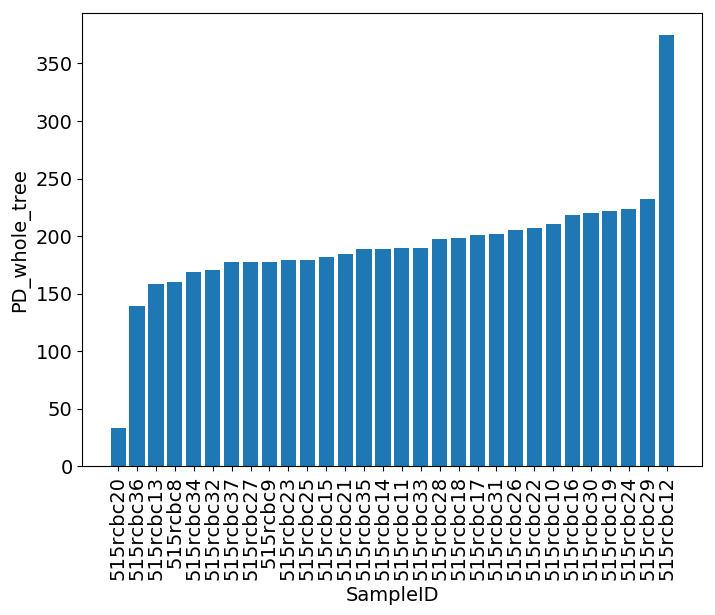
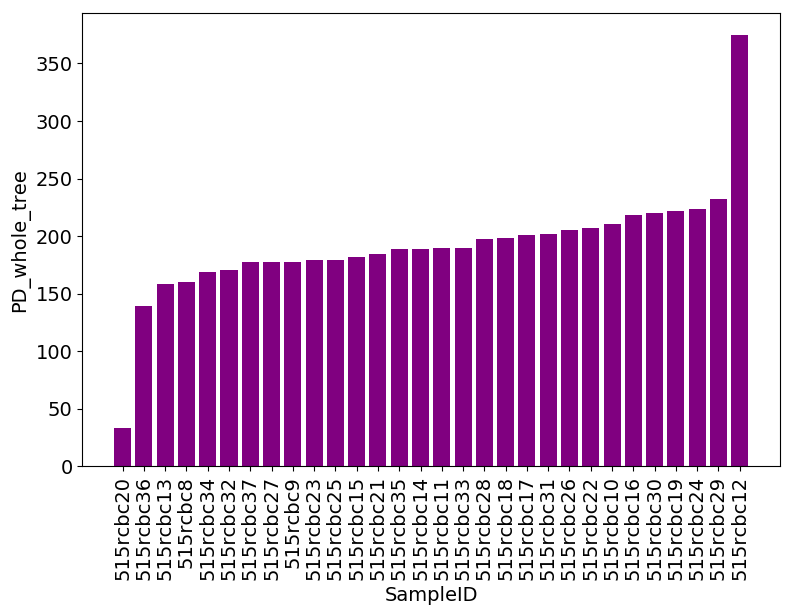
tweaking figures for the report

diff --git a/report/Report.tex b/report/Report.tex
@@ -5,14 +5,15 @@
 \usepackage{microtype} 
 \usepackage[export]{adjustbox}
 \usepackage[english]{babel} 
-\usepackage{float}
 \usepackage[hmarginratio=1:1,top=15mm,left=15mm,columnsep=15pt]{geometry} 
-\usepackage[small,labelfont=bf,up,textfont=it,up]{caption} 
+\usepackage[small,labelfont=bf,up,textfont=it,up]{caption}
+\usepackage{float}
 \usepackage{booktabs} 
 \usepackage{lettrine}
 \usepackage{graphicx}
 \usepackage{multicol}
-\usepackage{enumitem} 
+\usepackage{enumitem}
+\setlength{\parindent}{3ex}
 \setlist[itemize]{noitemsep} 
 \usepackage{abstract} 
 \renewcommand{\abstractnamefont}{\normalfont\bfseries}
@@ -22,7 +23,6 @@
 \renewcommand\thesubsection{\roman{subsection}} 
 \titleformat{\section}[block]{\large\scshape\centering}{\thesection.}{1em}{} 
 \titleformat{\subsection}[block]{\large}{\thesubsection.}{1em}{} 
-\pagenumbering{arabic}
 \usepackage{titling} 
 \usepackage{hyperref} 
 \setlength{\droptitle}{-4\baselineskip}
@@ -38,36 +38,53 @@
 \noindent 
 \end{abstract}
 }
-\bibliographystyle{vancouver}
 \begin{document}
-\setcounter{page}{1}
-\pagenumbering{arabic}
+
 \maketitle
 \begin{multicols}{2}
 \section{Introduction}
-\lettrine[nindent=0em,lines=3]{M}icrobiome analysis is an area of research that relies heavily on large samples and big amounts of data \cite{Thompson2017}. In this research I describe our attempt to conduct a small-scale soil microbiome analysis and the problems that occurred.\\
-One of the main areas of development in the field of microbiome analysis is the EMP - Earth Microbiome Project\cite{Gilbert2014}. It focuses on creation of a global catalogue of Earth's microbial diversity.
-One of the main aims of the analysis was to check whether the samples we collected follow the general trends of diversity and to confirm that the sample can be added to the EMP database.
+\lettrine[nindent=0em,lines=3]{M}icrobiome analysis is an area of research that relies heavily on large samples and big amounts of data. Since the correlations between the data itself and the metadata is rarely too strong, it is important to have a wide range of samples from different biomes in order to reliably report such correlations.
+\par 
+For that reason, one of the main areas of development in the field of microbiome analysis is the creation of a big databases with variety of samples from a range of biomes. The biggest development in this area is  EMP - Earth Microbiome Project\cite{Gilbert2014}. It was created in 2010 and focuses on creation of a global catalogue of Earth's microbial diversity, which can be used not only to perform studies on large datasets in order to find correlations within them, but also as a point of reference for criminologists and specialists in other area looking for insight into the microbial ecology of different areas.
+\par
+However, as with other open-source or semi open-source projects, there is always a question of how reliable and useful a single dataset can be in such a massive database? In order to test this theory, I used the genetic data of micrbes from samples of soil collected by our research group in order to test how sensible can be the data acquired from a small-scale soil analysis.
+\par
+The goals of the analysis were to check whether the samples we collected follow the general trends found within the EMP and to assess the small-scale result-based research in application to microbiome analysis.
 \section{Methods}
-The analysis was performed on 30 samples of soil, collected in Central London in October 2017. Metadata, such as moisture, temperature, footfall was collected on the spot, while other aspects, such as pH and concentrations of various ions was measured in the laboratory. Then 4 different kits were used in a workflow designed to extract the 16S V4 DNA region from the prokaryotes in the soil, following the instructions provided by manufacturer of each kit. \\
-%
-First, DNA was extracted using the \textit{DNeasy PowerSoil Kit}, and PCR primers were designed that contained Golay barcodes, allowing multiple samples to be sequenced simultaneously. \textit{BioMic PCR kit} was used with the aforementioned primers to perform the PCR. The mix acquired as the result of PCR was purified using \textit{QIAquick PCR Purification Kit}, and then the concentration of dsDNA was measured using \textit{SpectraMax Quant™ AccuClear Nano dsDNA Assay Kit}. Then all the samples were diluted to contain equal concentrations of DNA, and sequncing was performed on \textit{Illumina's MiSeq} sequncer. This workflow returned the raw DNA sequences that were used for downstream analysis.\\
-Analysis of sequences was performed using the QIIME\footnote{Version 1.9.1} package\cite{Caporaso2010,Kuczynski2012} for python programming language, which allows users to perform high-throughput sequence analysis. The basic pipeline consists of:
+The analysis was performed on 30 samples of soil, collected in Central London in October 2017. Metadata, such as moisture, temperature, footfall was collected on the spot, while other aspects, such as pH and concentrations of various ions was measured in the laboratory using the \textit{HI3895 Soil testing kit}. Then 4 different kits were used in a workflow designed to extract the 16S V4 DNA region from the prokaryotes in the soil, following the instructions provided by manufacturer of each kit.
+\par
+First, DNA was extracted using the \textit{DNeasy PowerSoil Kit} and PCR primers were designed that contained Golay barcodes, allowing multiple samples to be sequenced simultaneously. \textit{BioMic PCR kit} was used with the primers to perform the PCR. The solution acquired as the result of PCR was purified using \textit{QIAquick PCR Purification Kit} and then the concentration of dsDNA was measured using \textit{SpectraMax Quant AccuClear Nano dsDNA Assay Kit}. Using the information on DNA concentration all of the samples were subsequently diluted to equal concentrations and sequencing was performed on \textit{Illumina's MiSeq} sequencer. This workflow returned the DNA sequences that were used for downstream \textit{in silico} analysis.
+\par
+Analysis of sequences was performed using the QIIME\footnote{Version 1.9.1} package\cite{Caporaso2010,Kuczynski2012}, which allows users to perform high-throughput sequence analysis. Parts of analysis that required sever computational power were performed on the Cirrus High-Performance Computing system. The basic pipeline consists of:
 \begin{enumerate}
 	\item Data validation - checks the input data for errors
 	\item Sequence demultiplexing - recognises the Golay barcodes and splits data back into 30 samples.
-	\item OTU picking - for sequence analysis, it is preferable to work not with sequences directly, but with OTUs - Operational Taxonomic Units, which in out case correlate with a single species.
+	\item OTU picking - for sequence analysis, it is preferable to work not with sequences directly, but with OTUs - Operational Taxonomic Units, which in our case stand for a single species.
 \end{enumerate}
-This pipeline sets the foundation for any further analysis and is generally the most expensive part of the analysis, in terms of computational power. It requires a referencing database, for which I used SILVA\cite{Quast2012}\footnote{Release 132, April 10, 2018}, which is more up-to-date than Greengenes\cite{McDonald2012}.\\
-In order to analyse our samples, I used the QIIME scripts, such as core\_diversity\_analyses.py, which allows users to take a look at basic properties of the microbial communities, such as alpha and beta diversities. However, it should be noted that while providing good results in terms of data, these work-flows lack in the area of visualising data, which lead me to creation of my own visualisation scripts\cite{Anonymous2018}. They allow us to validate the results of our analysis, by using the data from the EMP, and points out the issues in the collected data.\\
-A tool that can be useful to determine whether the samples we collected are representative of the source, is sourcetracker\cite{Knights2011}, a tool that allows users to track proportion of each \textit{source} in each \textit{sink}, source and sink being all different samples of soil from EMP and our samples respectively. After filtering the data running sourcetracker and visualising the data\footnote{Detailed information can be found \href{https://github.com/nameisBaron-MichaelBaron/BIOC3301/tree/master/sourcetracker}{here}}, we receive the heatmap of how much of each source is present in each of our samples.
+\par 
+OTU picking requires a referencing database, for which I used SILVA\cite{Quast2012}\footnote{Release 132, April 10, 2018}, which is more up-to-date than Greengenes\cite{McDonald2012}. This pipeline sets the foundation for any further analysis and is generally the most expensive part of the analysis, in terms of computational power. For this reason it was performed on the Cirrus HPC, and most of the analysis described below was performed on a local machine. 
+\par
+In order to analyse our samples, I used the QIIME scripts, such as core\_diversity\_analyses.py, which allows users to take a look at basic properties of the microbial communities, such as alpha and beta diversities. However, it should be noted that while providing good results in terms of data, these workflows lack in the area of visualising data, which lead me to creation of my own visualisation scripts\cite{Anonymous2018}. They were used to validate the results of our analysis by using the data from the EMP, and points out the errors in the collected data.
+\par
+A tool that can be useful to determine whether the samples we collected are representative of the source, is sourcetracker package\cite{Knights2011}, a tool that allows users to track proportion of each \textit{source} in each \textit{sink}, source and sink being all different samples of soil from EMP and our samples respectively. After filtering the data, running sourcetracker and visualising the data\footnote{Detailed information can be found \href{https://github.com/nameisBaron-MichaelBaron/BIOC3301/tree/master/sourcetracker}{here}}, we receive the heatmap of how much of each source is present in each of our samples. When performing such an analysis it is important to set the correct values for different parameters, such as rarefaction depth and lower threshold for number of samples an OTU can be found in.
+\par
+In an attempt to find a correlation between metadata and the diversity of our samples, scripts included in the QIIME package were used and metadata was transformed into numeric form, with results from \textit{HI3895 Soil testing kit} treated as values on exponential scale. Analysis was performed using ANOSIM\cite{CLARKE1993}, PERMANOVA\cite{Tang2016} and a collection of other statistical methods, where the distance matrix was analysed with respect to pH, potassium, nitrogen and phosphorus content.
+\par
+To assess the taxonomic composition of our samples, taxonomic assignment using the SILVA\cite{Quast2012} database was performed, and the uniformity of samples was assessed using visual plots that represent the proportion of each order in each sample. 
+\par
+In general, performing the analysis after the OTU picking stage was mostly performed using the various python packages, such as numpy, scipy, pandas, seaborn and matplotlib, which greatly aid in data visualisation and statistical calculations.
+
+\section{Results}
+During the OTU picking stage, over 4.5 million sequences were recovered from raw data, with 16448 of them being unique. However, it should be noted, that due to use of closed-reference OTU picking, almost 800 thousand sequences (17\%) were removed from the downstream analysis since no match was found in the databases. This result is similar to the one that was obtained on the larger-scale analogue of this research performed by Thompson et al.\cite{Thompson2017}, pictured in the Figure \ref{fig:EMP_Silva}, shown below.
 \begin{figure}[H]
-	\includegraphics[width=1\linewidth]{../sourcetracker/heatmap_perc.png}
-	\caption{Heatmap showing the proportion of each source in each sink, percentage. as we can see, while the "Unknown" section still stands for high proportion of most sinks, there are 3 prominent sources in most samples - agricultural soil, national park and field soil. }
-	\label{fig:sourcetracker_heatmap}
+	\includegraphics[width=1\linewidth]{./figs/EMP_SILVA.jpg}
+	\caption{Comparison of Greengenes with SILVA databases, with number of reads in EMP samples, grouped by environment. Boxplots show median, IQR, and 1.5 × IQR (with outliers). Adapted from \cite{Thompson2017}}
+	\label{fig:EMP_Silva}
 \end{figure}
-In an attempt to find a correlation between metadata and the diversity of our samples, scripts provided by QIIME were used, and metadata was transformed into numeric exponential form. \\
-The results can be seen in the table below.
+Because these sequences were not found in the database, it can be assumed that they could have severely influenced diversity of the samples.
+\par
+It can be noticed from Table 1, that there is no significant correlation between any of the metadata categories and diversity, since the R-value is close to zero. Other methods of statistical analysis provided similar results (not presented here).. However, similar large-scale analyses reported that there is a correlation between richness and diversity and pH\cite{Thompson2017,Fierer2006,Wu2016}.  Most likely this happened due to low number of samples and low diversity of samples (all collected from the same biome).
+
 \begin{table}[H]
 	\begin{center}
 		\label{tab:table_correlation}
@@ -79,23 +96,22 @@ The results can be seen in the table below.
 			Nitrogen & 0.120 & 0.120 \\
 			Phosphorus & 0.201 & 0.058\\
 		\end{tabular}
-	\caption{Correlation between metadata and beta-diversity, calculated using ANOSIM\cite{CLARKE1993} methodic.}
+		\caption{Correlation between metadata and beta-diversity, calculated using ANOSIM\cite{CLARKE1993} methodic.}
 	\end{center}
 \end{table}
-\section{Results}
-During the OTU picking stage, I managed to recover over 4.5 million sequences overall, with 16448 of them being unique. However, it should be noted, that due to use of closed-reference OTU picking, which was used due to being cheaper, almost 800 thousand sequences(1̃7\%) were removed from the analysis since no match was found in the database. This result is similar to the ones that were obtained on the larger-scale analogue of this research, pictured in the Figure \ref{fig:EMP_Silva}, shown below.
+\par
+In order to assess the composition of each sample, results from the sourcetracker analysis are presented in Figure \ref{fig:sourcetracker_heatmap}. It can be seen that most samples show highest relatedness to 3 different biomes - national park soil, field soil and agricultural soil, which is consistent with what would be expected. Sample \textit{515rcbc20} had to be excluded from the analysis due to having a very low number of OTUs observed (653), which prevents sourcetracker from producing sensible results, however the uniformity and good clustering of the rest of the samples is indirectly confirmed by this test as well.
 \begin{figure}[H]
-	\includegraphics[width=1\linewidth]{./figs/EMP_SILVA.jpg}
-	\caption{Comparison of Greengenes with SILVA databases, with number of reads in EMP samples, grouped by environment. Boxplots show median, IQR, and 1.5 × IQR (with outliers). Adapted from \cite{Thompson2017}}
-	\label{fig:EMP_Silva}
+	\includegraphics[width=\linewidth]{../sourcetracker/heatmap_perc.png}
+	\caption{Heatmap showing the proportion of each source in each sink, percentage (\%). As we can see, while the "Unknown" section still stands for high proportion of most sinks, there are 3 prominent sources in most samples - agricultural soil, national park and field soil.}
+	\label{fig:sourcetracker_heatmap}
 \end{figure}
-Because these sequences were not found in the database, it can be assumed that they were rare and could have
-severely influenced diversity of the samples. Another issue that I can point out with the OTU picking method, is the limitations imposed by the databases. SILVA database currently contains 177222 sequences, which means that our study, while being rather small, already covered almost 10\% of the database. Thompson et al.\cite{Thompson2017} report that a study they performed using just under 100 samples from different biomes covered up to 50\% of the databases. \\
-It can be noticed that there is no significant correlations between any of the metadata categories and the diversity. However, similar large-scale analyses reported that there is a correlation between richness and diversity and pH\cite{Thompson2017,Fierer2006,Wu2016}. 
+\par
+Another way to assess uniformity of the samples is the alpha diversity analysis, which assesses the number of unique OTU for each sample. While different methods can be used, I chose the Chao1 metric, which estimates species richness based on a matrix of abundance data. The alpha diversity is presented below (Fig. \ref{fig:alpha_diversity}) and shows the 2 outlying samples - 515rcbc12 and 515rcbc20 having an unusually high and low alpha-diversity respectively.
 \begin{figure}[H]
 	\captionsetup{width=\linewidth}
 	\includegraphics[width=\linewidth]{../analyses/figs/chao1_alpha.pdf}
-	\caption{Alpha diversity (Chao1) for each of 30 samples. Obvious outliers can be seen, in samples 515rcbc20 and 515rcbc12, which were collected outside the main area of analysis(Gordon square in Central London), in soil near canal and compost respectively.}
+	\caption{Alpha diversity (Chao1) for each of 30 samples.Samples \textit{515rcbc20} and \textit{515rcbc12} are obvious outliers,since they were collected outside the main area of analysis (Gordon square in Central London), in soil near canal and compost respectively.}
 	\label{fig:alpha_diversity}
 \end{figure}
 \begin{figure}[H]
@@ -107,6 +123,10 @@ It can be noticed that there is no significant correlations between any of the m
 
 \section{Discussion}
 OTU picking strategy is outdated, and with increase of computational power and decrease in price of core-hours of High Performance Computer clusters, other techniques (for example Deblur\cite{Amir}) will provide more accurate results.
+\par
+
+Another issue that I can point out with the OTU picking method, is the limitations imposed by the databases. SILVA database currently contains 177222 sequences, which means that our study, while being rather small, already covered almost 10\% of the database. Thompson et al.\cite{Thompson2017} report that a study they performed using just under 100 samples from different biomes covered up to 50\% of the databases.
+
 \newpage
 \bibliographystyle{vancouver}
 \bibliography{/home/ilya/Documents/Citations/3301.bib}

diff --git a/analyses/qiime_analysis.py b/analyses/qiime_analysis.py
@@ -30,9 +30,9 @@ def sort_df(dataframe):
 
 def plot_bar(dataframe, metric, title=False, savename=False, dpi=100, ylabel=False, xlabel='SampleID'):
     matplotlib.rcParams.update({'font.size': 14})
-    fig, ax = plt.subplots(figsize=(8,6))
+    fig, ax = plt.subplots(figsize=(9,6))
     dataframe = dataframe.sort_values(metric, axis=0)
-    plt.bar(dataframe.index, dataframe[metric])
+    plt.bar(dataframe.index, dataframe[metric], color='purple')
     plt.xticks(rotation=90)
     plt.ylabel(metric, fontsize=14)
     if title:
